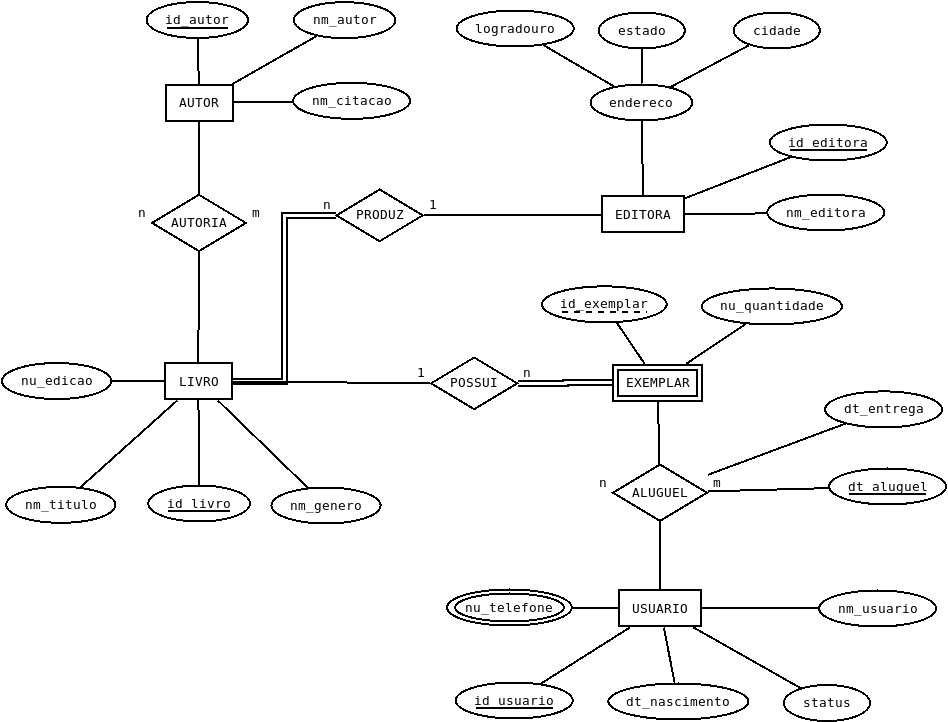
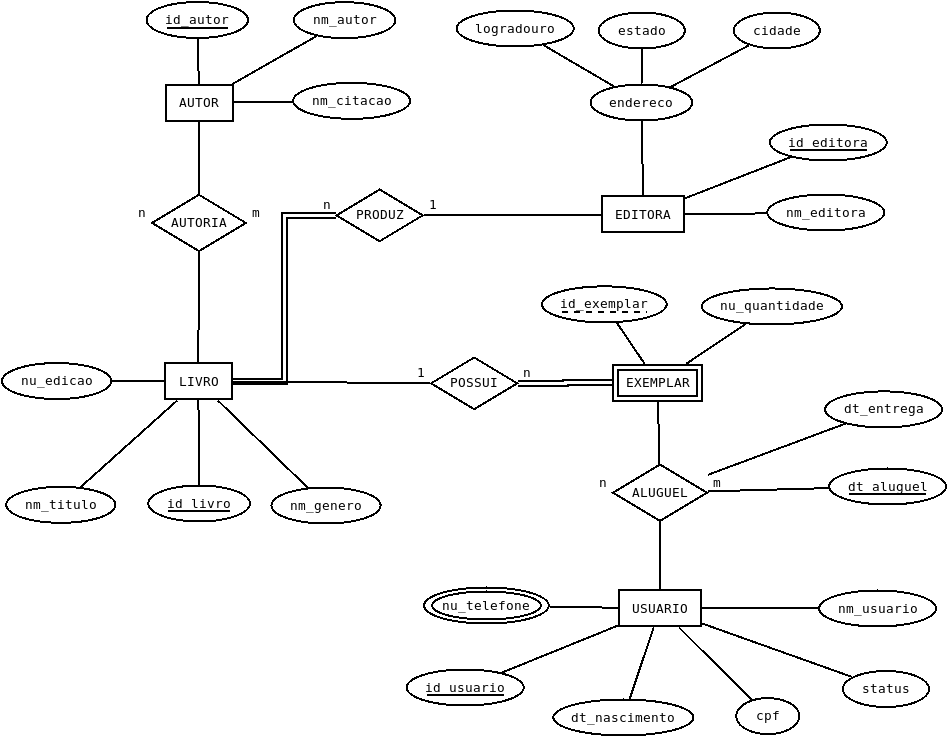
Adicao do atributo cpf nos diagramas.

diff --git a/README.md b/README.md
@@ -1,3 +1,3 @@
 # bdfinal
 Trabalho de LBD
-![Alt text](diagramaER_BD.png?raw=true "Diagrama ER")
+![Alt text](diagramas/biblioteca_diagramaER.png?raw=true "Diagrama ER")
